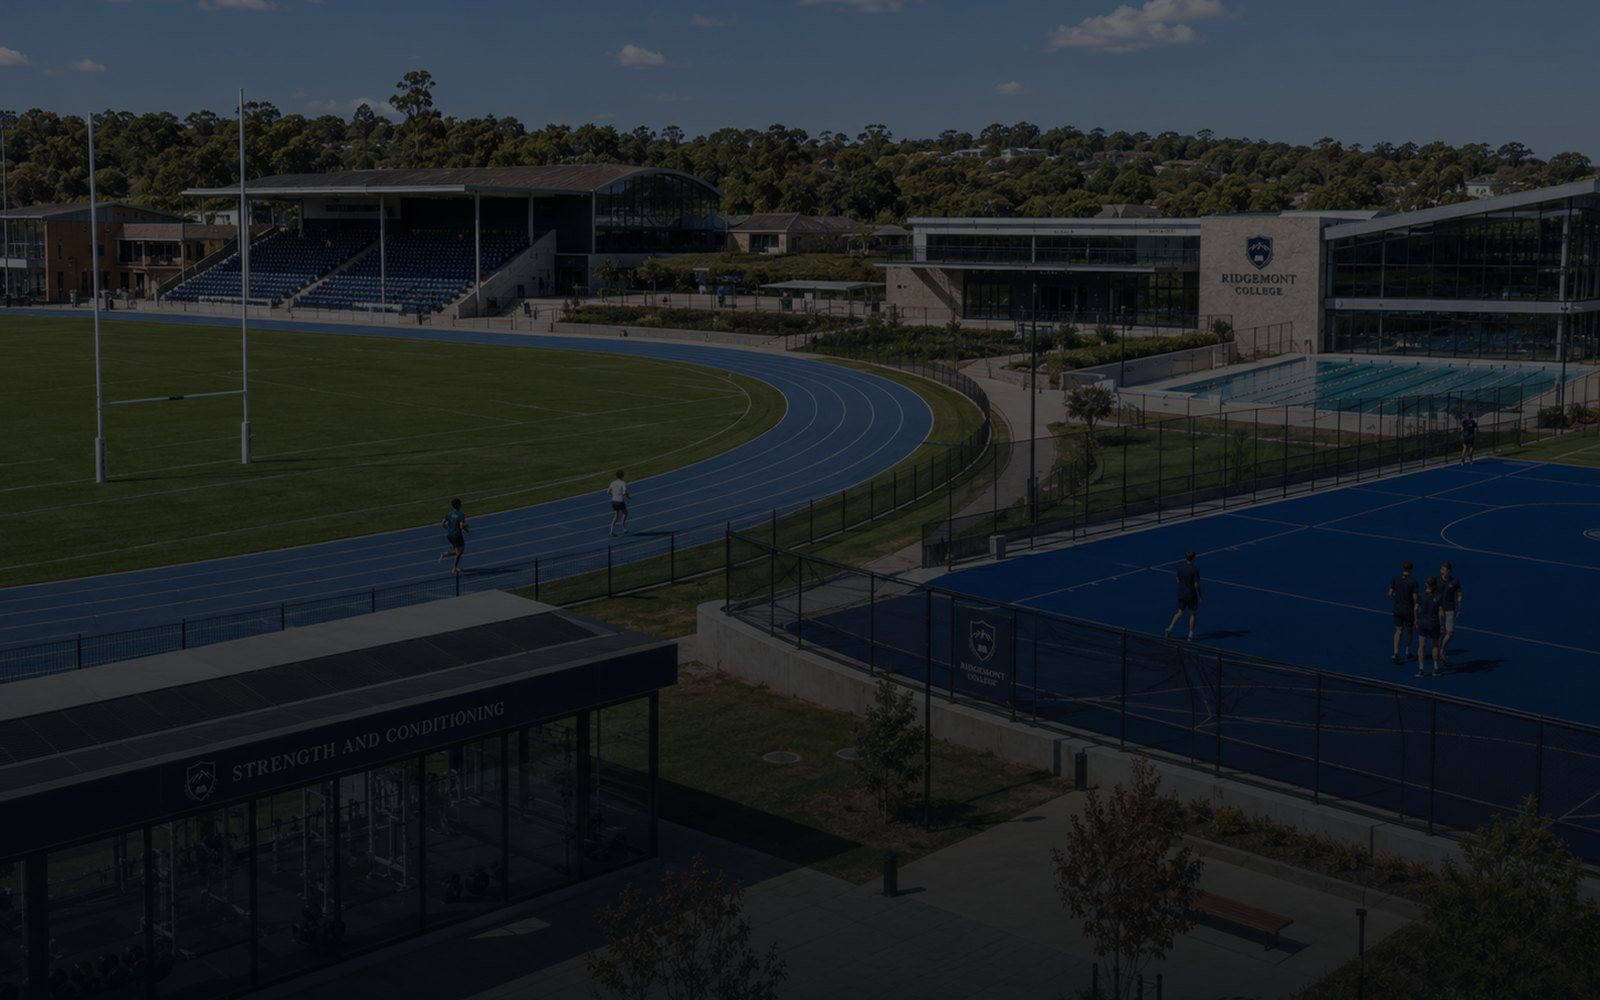
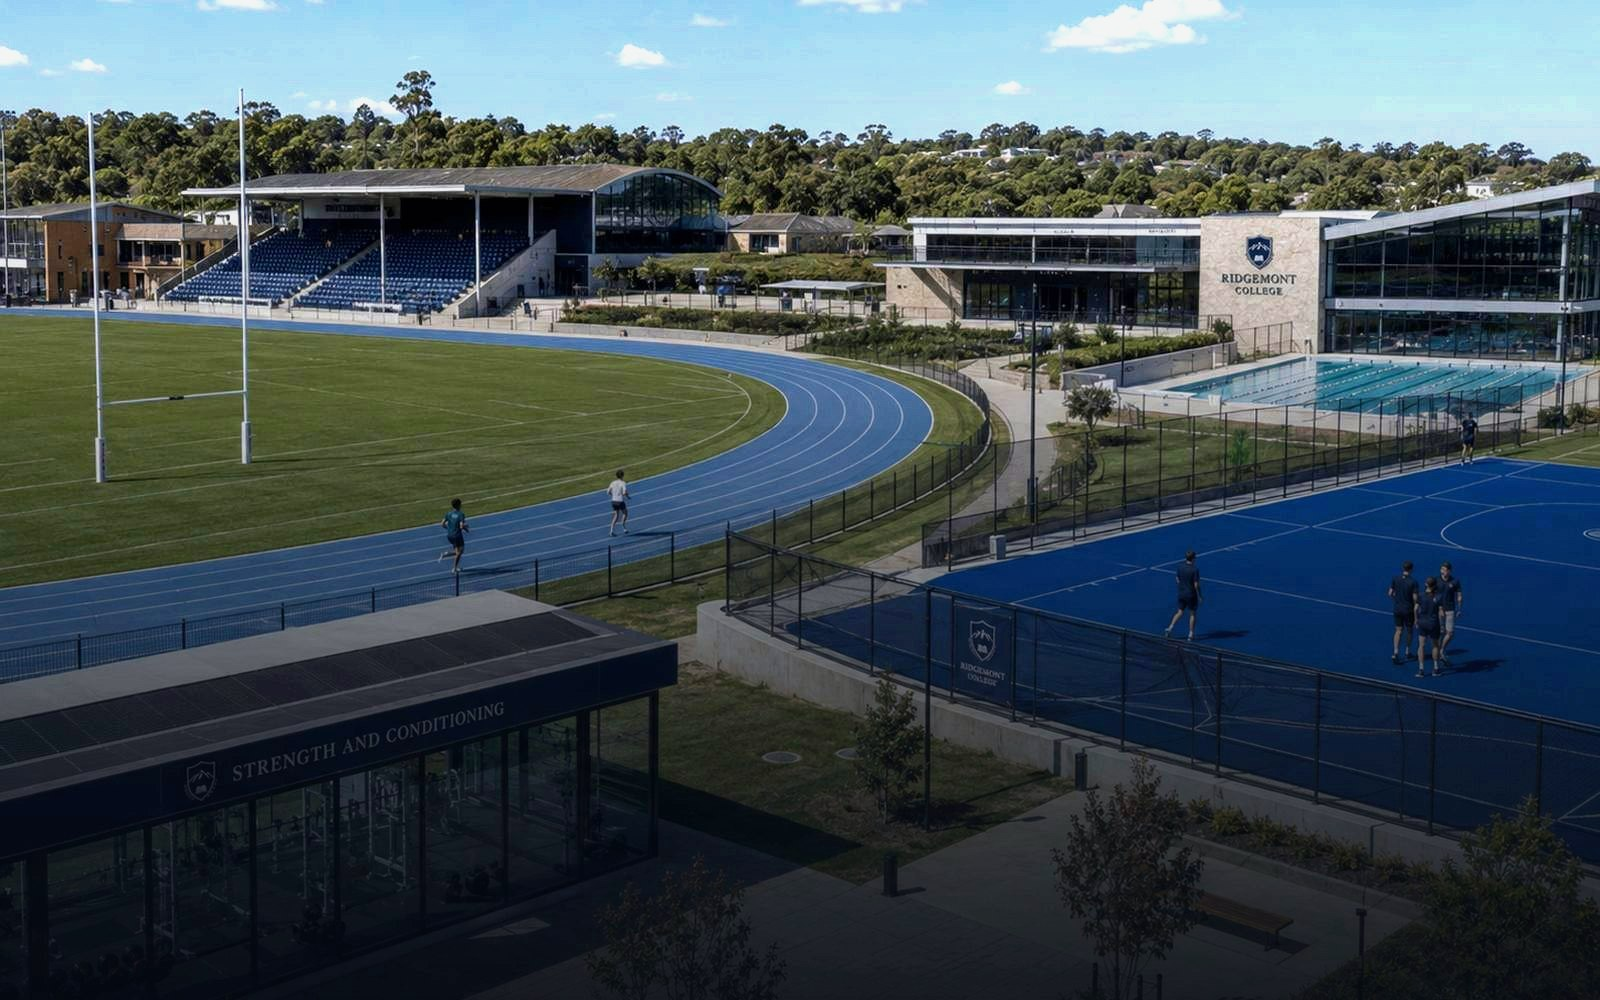
Remove live code-gated portal-login page; fix staff login sport label; brighten hero images

diff --git a/app/portal-login/page.tsx b/app/portal-login/page.tsx
@@ -1,228 +1,22 @@
-'use client';
-import * as React from 'react';
-import Image from 'next/image';
-import Link from 'next/link';
-import { useSearchParams } from 'next/navigation';
-import { Suspense } from 'react';
-import { useBranding } from '@/components/BrandingProvider';
+import { redirect } from 'next/navigation';
 
-const SPORT_CONFIG: Record<string, {
-  label: string; color: string; colorDim: string;
-  btnGradient: string; btnShadow: string; photo: string;
-}> = {
-  hockey:   { label:'Hockey',   color:'#3b82f6', colorDim:'rgba(59,130,246,0.12)',  btnGradient:'linear-gradient(135deg,#1d4ed8,#3b82f6)', btnShadow:'0 8px 32px rgba(59,130,246,0.45)',  photo:'/bg-hero-1.jpg' },
-  rugby:    { label:'Rugby',    color:'#f87171', colorDim:'rgba(248,113,113,0.12)', btnGradient:'linear-gradient(135deg,#b91c1c,#f87171)', btnShadow:'0 8px 32px rgba(248,113,113,0.45)', photo:'/bg-hero-2.jpg' },
-  cricket:  { label:'Cricket',  color:'#fbbf24', colorDim:'rgba(251,191,36,0.12)',  btnGradient:'linear-gradient(135deg,#92400e,#fbbf24)', btnShadow:'0 8px 32px rgba(251,191,36,0.45)',  photo:'/bg-hero-3.jpg' },
-  swimming: { label:'Swimming', color:'#818cf8', colorDim:'rgba(129,140,248,0.12)', btnGradient:'linear-gradient(135deg,#4338ca,#818cf8)', btnShadow:'0 8px 32px rgba(129,140,248,0.45)', photo:'/bg-hero-1.jpg' },
-  rowing:   { label:'Rowing',   color:'#34d399', colorDim:'rgba(52,211,153,0.12)',  btnGradient:'linear-gradient(135deg,#065f46,#34d399)', btnShadow:'0 8px 32px rgba(52,211,153,0.45)',  photo:'/bg-hero-1.jpg' },
-};
+// ─── /portal-login ─────────────────────────────────────────────────────────────
+// Retired. The portal no longer requires a code — fixtures and results are
+// public, and anything personal sits behind a real account instead (see
+// PortalAuthGuard.tsx). This page used to be the code gate itself; it stayed
+// live and reachable even after every link was updated to point at /portal
+// directly, so anyone who had bookmarked it, or hit a cached link, could still
+// land on a code prompt that no longer matches how the app works.
+//
+// Kept as a redirect rather than deleted outright, so an old link still lands
+// somewhere useful instead of a 404.
 
-function PortalLoginInner() {
-  const { branding } = useBranding();
-  const searchParams = useSearchParams();
-  const sport = searchParams.get('sport') ||
-    (typeof document !== 'undefined'
-      ? document.cookie.split(';').find(c => c.trim().startsWith('portal_sport='))?.split('=')[1]
-      : null) || 'hockey';
-  const cfg = SPORT_CONFIG[sport] || SPORT_CONFIG.hockey;
-
-  const [code, setCode] = React.useState('');
-  const [error, setError] = React.useState('');
-  const [loading, setLoading] = React.useState(false);
-  const [focused, setFocused] = React.useState(false);
-
-  async function handleSubmit(e: React.FormEvent) {
-    e.preventDefault();
-    setLoading(true); setError('');
-    try {
-      const res = await fetch('/api/portal/login', {
-        method: 'POST',
-        headers: { 'Content-Type': 'application/json' },
-        body: JSON.stringify({ code: code.trim(), sport }),
-      });
-      const data = await res.json();
-      if (!res.ok) { setError(data.error || 'Access denied.'); setLoading(false); return; }
-      window.location.href = `/portal?sport=${sport}`;
-    } catch {
-      setError('Network error. Please try again.');
-      setLoading(false);
-    }
-  }
-
-  return (
-    <>
-      <style>{`
-        @import url('https://fonts.googleapis.com/css2?family=Inter:wght@300;400;500;600;700;800;900&display=swap');
-        * { font-family: 'Inter', sans-serif; }
-        .portal-card { position: relative; overflow: hidden; }
-        .portal-card::before {
-          content: '';
-          position: absolute; inset: 0; border-radius: 24px;
-          background: linear-gradient(140deg, rgba(255,255,255,0.09) 0%, rgba(255,255,255,0.02) 45%, transparent 70%);
-          pointer-events: none; z-index: 1;
-        }
-        .portal-card::after {
-          content: '';
-          position: absolute; top: 0; left: 15%; right: 15%; height: 1px;
-          background: linear-gradient(90deg, transparent, rgba(255,255,255,0.55) 40%, rgba(255,255,255,0.85) 50%, rgba(255,255,255,0.55) 60%, transparent);
-          pointer-events: none; z-index: 2;
-        }
-        .access-btn { transition: transform 0.2s ease, filter 0.2s ease; }
-        .access-btn:hover:not(:disabled) { transform: translateY(-1px); filter: brightness(1.1); }
-        .back-link { transition: color 0.2s ease; }
-        .back-link:hover { color: rgba(255,255,255,0.6) !important; }
-      `}</style>
-
-      <main style={{minHeight:'100vh',display:'flex',flexDirection:'column',alignItems:'center',justifyContent:'center',padding:'24px 16px',position:'relative',overflow:'hidden',background:'#020810'}}>
-
-        {/* Full-screen background photo */}
-        <div style={{position:'absolute',inset:0,zIndex:0}}>
-          <Image src={cfg.photo} alt="" fill className="object-cover object-center"
-            style={{filter:'brightness(0.22) saturate(0.5)'}} priority/>
-        </div>
-
-        {/* Dark gradient overlay */}
-        <div style={{position:'absolute',inset:0,zIndex:1,background:'linear-gradient(to bottom, rgba(2,8,16,0.6) 0%, rgba(2,8,16,0.4) 50%, rgba(2,8,16,0.8) 100%)'}}/>
-
-        {/* Sport colour radial glow */}
-        <div style={{position:'absolute',inset:0,zIndex:2,pointerEvents:'none',background:`radial-gradient(ellipse 65% 55% at 50% 42%, ${cfg.colorDim}, transparent)`}}/>
-
-        {/* Card */}
-        <div className="portal-card" style={{
-          position:'relative',zIndex:10,
-          width:'100%',maxWidth:460,
-          background:'rgba(6,14,36,0.75)',
-          backdropFilter:'blur(28px) saturate(180%)',
-          WebkitBackdropFilter:'blur(28px) saturate(180%)',
-          border:'1px solid rgba(255,255,255,0.1)',
-          borderRadius:24,
-          boxShadow:`0 40px 90px rgba(0,0,0,0.7), inset 0 1px 0 rgba(255,255,255,0.1), 0 0 0 0.5px rgba(255,255,255,0.05)`,
-          padding:'44px 40px 36px',
-        }}>
-          {/* Sport colour top rim */}
-          <div style={{position:'absolute',top:0,left:'10%',right:'10%',height:1,background:`linear-gradient(90deg,transparent,${cfg.color}90,${cfg.color},${cfg.color}90,transparent)`,zIndex:3}}/>
-
-          <div style={{position:'relative',zIndex:2,textAlign:'center'}}>
-
-            {/* Logo */}
-            <div style={{marginBottom:18,display:'flex',justifyContent:'center'}}>
-              <Image src={branding.logoUrl} alt={branding.name} width={68} height={68}
-                style={{objectFit:'contain',filter:'drop-shadow(0 4px 16px rgba(0,0,0,0.7))'}} priority/>
-            </div>
-
-            {/* School name */}
-            <p style={{fontSize:11,fontWeight:500,letterSpacing:'0.22em',color:'rgba(255,255,255,0.55)',marginBottom:10}}>
-              {branding.name.toUpperCase()}
-            </p>
-
-            {/* Heading */}
-            <h1 style={{fontSize:30,fontWeight:800,letterSpacing:'0.01em',lineHeight:1.1,marginBottom:12}}>
-              <span style={{color:'white'}}>{cfg.label.toUpperCase()} </span>
-              <span style={{color:cfg.color}}>PORTAL</span>
-            </h1>
-
-            {/* Divider */}
-            <div style={{width:36,height:2,background:`linear-gradient(90deg,transparent,${cfg.color},transparent)`,margin:'0 auto 14px'}}/>
-
-            {/* Subtitle */}
-            <p style={{fontSize:13,color:'rgba(255,255,255,0.4)',marginBottom:28,lineHeight:1.5}}>
-              Enter the portal access code to continue
-            </p>
-
-            {/* Form */}
-            <form onSubmit={handleSubmit}>
-              <p style={{fontSize:10,fontWeight:700,letterSpacing:'0.2em',color:cfg.color,textAlign:'left',marginBottom:8}}>
-                ACCESS CODE
-              </p>
-
-              <div style={{position:'relative',marginBottom:12}}>
-                <div style={{position:'absolute',left:14,top:'50%',transform:'translateY(-50%)',pointerEvents:'none'}}>
-                  <svg viewBox="0 0 24 24" fill="none" stroke="rgba(255,255,255,0.28)" strokeWidth={1.8} style={{width:17,height:17}}>
-                    <rect x="3" y="11" width="18" height="11" rx="2"/>
-                    <path d="M7 11V7a5 5 0 0 1 10 0v4"/>
-                  </svg>
-                </div>
-                <input
-                  type="password" required
-                  value={code}
-                  onChange={e => setCode(e.target.value)}
-                  onFocus={() => setFocused(true)}
-                  onBlur={() => setFocused(false)}
-                  placeholder="Enter access code"
-                  autoComplete="off"
-                  style={{
-                    width:'100%',boxSizing:'border-box',
-                    background:'rgba(255,255,255,0.05)',
-                    border:`1px solid ${focused ? cfg.color+'80' : 'rgba(255,255,255,0.1)'}`,
-                    borderRadius:12,padding:'13px 14px 13px 42px',
-                    color:'white',fontSize:14,outline:'none',
-                    transition:'border-color 0.2s, box-shadow 0.2s',
-                    boxShadow:focused ? `0 0 0 3px ${cfg.color}18` : 'none',
-                  }}
-                />
-              </div>
-
-              {error && (
-                <div style={{background:'rgba(239,68,68,0.1)',border:'1px solid rgba(239,68,68,0.22)',borderRadius:10,padding:'10px 14px',fontSize:13,color:'#fca5a5',textAlign:'center',marginBottom:12}}>
-                  {error}
-                </div>
-              )}
-
-              <button type="submit" disabled={loading || !code.trim()} className="access-btn"
-                style={{
-                  width:'100%',border:'none',borderRadius:12,padding:'14px 24px',
-                  background:loading || !code.trim() ? 'rgba(255,255,255,0.07)' : cfg.btnGradient,
-                  boxShadow:loading || !code.trim() ? 'none' : cfg.btnShadow,
-                  color:'white',fontSize:15,fontWeight:700,
-                  cursor:loading || !code.trim() ? 'not-allowed' : 'pointer',
-                  display:'flex',alignItems:'center',justifyContent:'center',gap:10,
-                  opacity:loading || !code.trim() ? 0.45 : 1,
-                  transition:'opacity 0.2s',letterSpacing:'0.01em',
-                }}>
-                {loading ? 'Checking...' : (
-                  <>
-                    Access Portal
-                    <svg viewBox="0 0 24 24" fill="none" stroke="white" strokeWidth={2.5} style={{width:15,height:15}}>
-                      <path d="M5 12h14M12 5l7 7-7 7"/>
-                    </svg>
-                  </>
-                )}
-              </button>
-            </form>
-
-            <div style={{marginTop:22}}>
-              <Link href="/" className="back-link" style={{fontSize:13,color:'rgba(255,255,255,0.3)',textDecoration:'none'}}>
-                ← Back to Departments
-              </Link>
-            </div>
-          </div>
-        </div>
-
-        {/* Footer */}
-        <div style={{position:'relative',zIndex:10,marginTop:28,textAlign:'center'}}>
-          <p style={{fontSize:9,fontWeight:700,letterSpacing:'0.45em',color:`${cfg.color}55`,textTransform:'uppercase',marginBottom:6}}>
-            Performance Operating System
-          </p>
-          <div style={{display:'flex',flexWrap:'wrap',justifyContent:'center',gap:'4px 8px',fontSize:9,color:'rgba(255,255,255,0.18)'}}>
-            <span>Altus Performance is a product of Altus (Pty) Ltd. Reg. 2026/424230/07</span>
-            <span>·</span>
-            <Link href="/privacy" style={{color:'inherit'}}>Privacy</Link>
-            <span>·</span>
-            <Link href="/terms" style={{color:'inherit'}}>Terms</Link>
-            <span>·</span>
-            <span>© {new Date().getFullYear()} All rights reserved.</span>
-          </div>
-        </div>
-
-      </main>
-    </>
-  );
-}
-
-export default function PortalLoginPage() {
-  return (
-    <Suspense fallback={<div style={{minHeight:'100vh',background:'#020810'}}/>}>
-      <PortalLoginInner />
-    </Suspense>
-  );
+export default async function PortalLoginRedirect({
+  searchParams,
+}: { searchParams: Promise<{ sport?: string; school?: string }> }) {
+  const { sport, school } = await searchParams;
+  const qs = new URLSearchParams();
+  if (sport) qs.set('sport', sport);
+  if (school) qs.set('school', school);
+  redirect(`/portal${qs.toString() ? `?${qs.toString()}` : ''}`);
 }

diff --git a/app/login/page.tsx b/app/login/page.tsx
@@ -118,7 +118,7 @@ function LoginForm() {
           </div>
           <p className="text-xs font-black uppercase tracking-[0.28em] text-sky-400">{branding.name}</p>
           <h1 className="mt-2 text-4xl font-black tracking-tight text-white">Coach Login</h1>
-          <p className="mt-3 text-sm leading-6 text-white/50">Secure staff access · {sportCfg.label} Department</p>
+          <p className="mt-3 text-sm leading-6 text-white/50">Secure staff access</p>
         </div>
 
         <form onSubmit={handleLogin} className="space-y-4">
